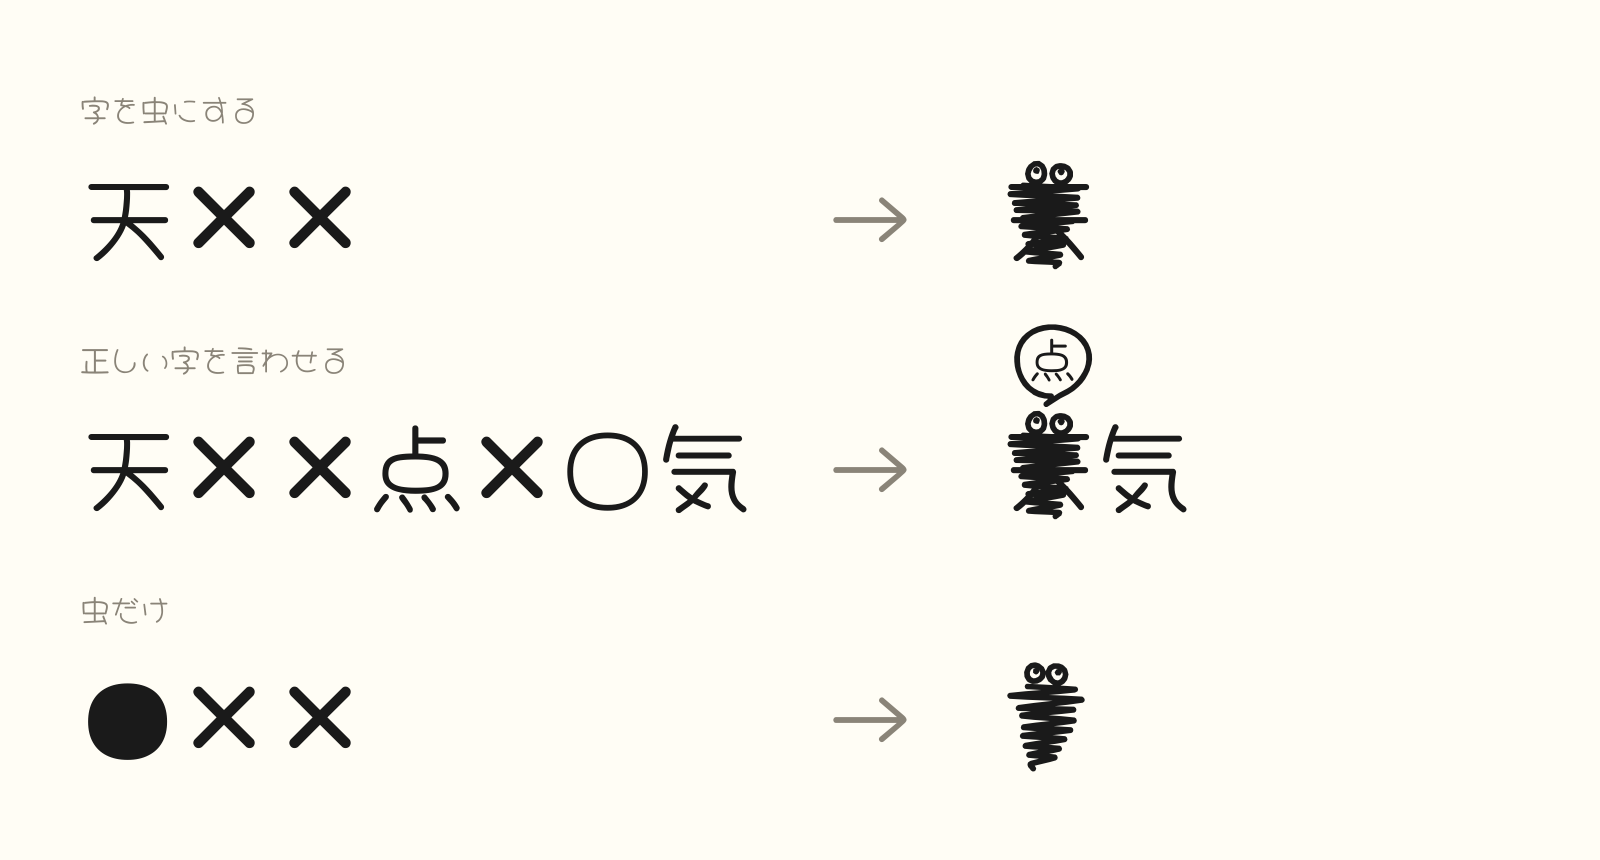
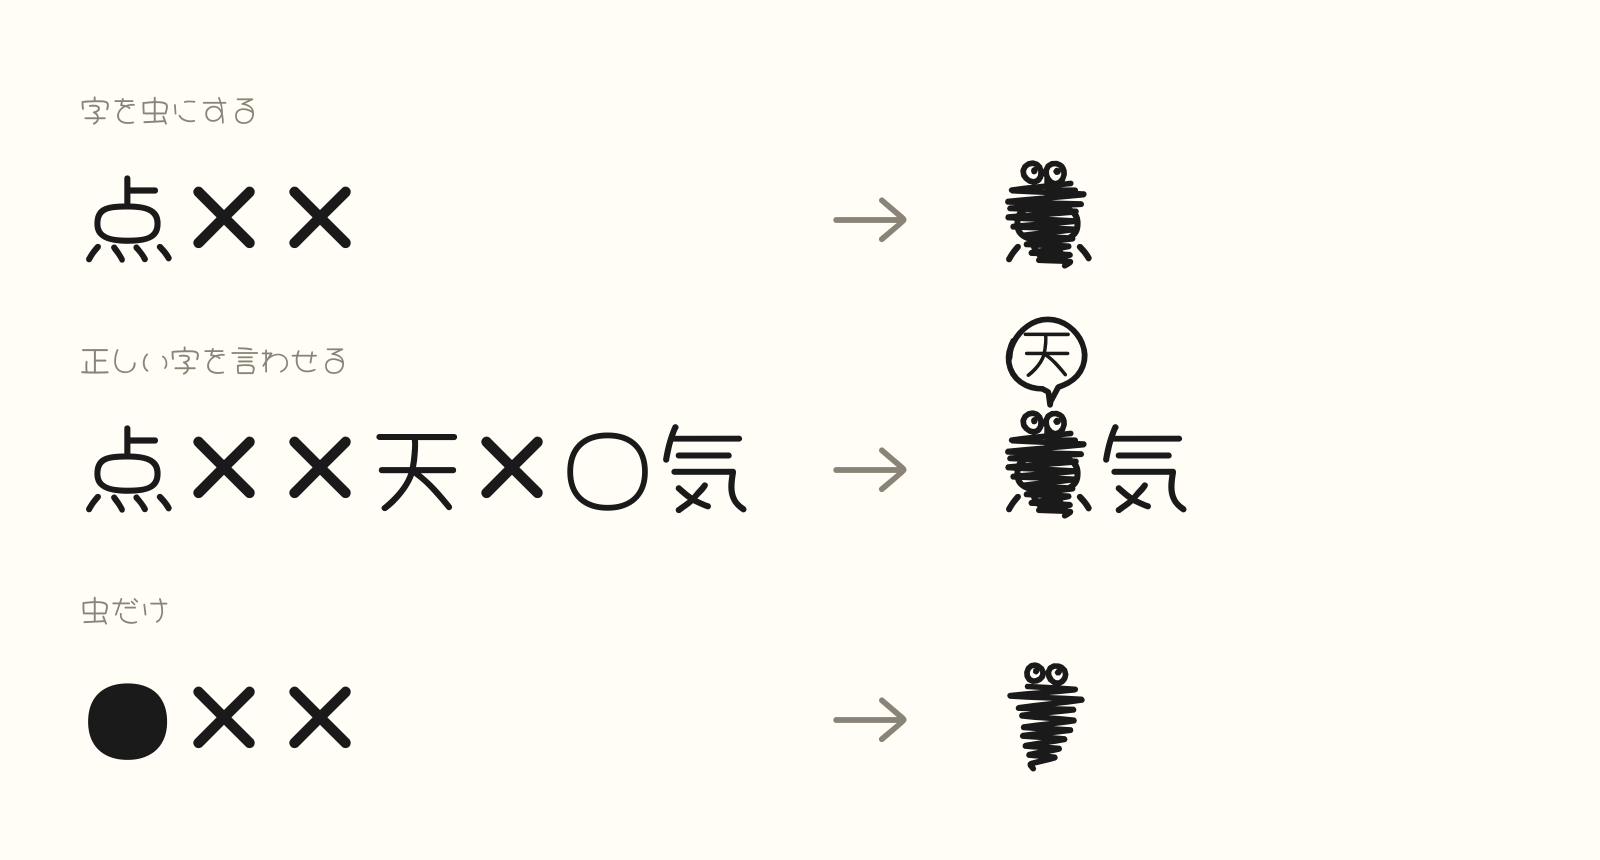
例文を「誤字を正しい字に直す」向きにする
天✕✕点✕○気 は正しい字を消して誤字を言わせていたので、点✕✕天✕○気 に入れ替えた。
縦書きの見本の「間違い」も、問✕✕間✕○違い に直した。

diff --git a/preview.html b/preview.html
@@ -28,11 +28,11 @@
 #guide .mino{word-break:keep-all}#guide code{font:12px/1.4 ui-monospace,monospace;color:#888;display:block}#nomi p{font-size:38px;line-height:1.7}</style>
 <div id="guide">
 <h2>使い分け（漢字のある4書体）: 横書きは ss、縦書きの漢字は合字</h2>
-<code>横 ss02: &lt;span class="s2"&gt;天&lt;/span&gt; / 横 ss01 + ss03: &lt;span class="s1"&gt;天&lt;/span&gt;&lt;span class="s3"&gt;点&lt;/span&gt; / 横 合字: &lt;span class="mino"&gt;天✕✕点✕○&lt;/span&gt;（.mino は word-break: keep-all）</code>
-<p style="font-family:Gokuboso">良い<span class="s2">天</span>気 良い<span class="s1">天</span><span class="s3">点</span>気 良い<span class="mino">天✕✕点✕○</span>気</p>
-<p style="font-family:Marumoji">良い<span class="s2">天</span>気 良い<span class="s1">天</span><span class="s3">点</span>気 良い<span class="mino">天✕✕点✕○</span>気</p>
-<p style="font-family:Ballpen">良い<span class="s2">天</span>気 良い<span class="s1">天</span><span class="s3">点</span>気 良い<span class="mino">天✕✕点✕○</span>気</p>
-<p style="font-family:Marker">良い<span class="s2">天</span>気 良い<span class="s1">天</span><span class="s3">点</span>気 良い<span class="mino">天✕✕点✕○</span>気</p>
+<code>横 ss02: &lt;span class="s2"&gt;天&lt;/span&gt; / 横 ss01 + ss03: &lt;span class="s1"&gt;点&lt;/span&gt;&lt;span class="s3"&gt;天&lt;/span&gt; / 横 合字: &lt;span class="mino"&gt;点✕✕天✕○&lt;/span&gt;（.mino は word-break: keep-all）</code>
+<p style="font-family:Gokuboso">良い<span class="s2">天</span>気 良い<span class="s1">点</span><span class="s3">天</span>気 良い<span class="mino">点✕✕天✕○</span>気</p>
+<p style="font-family:Marumoji">良い<span class="s2">天</span>気 良い<span class="s1">点</span><span class="s3">天</span>気 良い<span class="mino">点✕✕天✕○</span>気</p>
+<p style="font-family:Ballpen">良い<span class="s2">天</span>気 良い<span class="s1">点</span><span class="s3">天</span>気 良い<span class="mino">点✕✕天✕○</span>気</p>
+<p style="font-family:Marker">良い<span class="s2">天</span>気 良い<span class="s1">点</span><span class="s3">天</span>気 良い<span class="mino">点✕✕天✕○</span>気</p>
 <code>縦 合字: &lt;span class="mino"&gt;猫✕✕犬✕○と&lt;/span&gt;（span にかなを1字入れる。段落に text-shadow: 1em 0 0 transparent）/ 縦 かなの ss02</code>
 <p class="v" style="font-family:Gokuboso">今日は<span class="mino">猫✕✕犬✕○と</span>遊ぶ<br>それ<span class="s2">は</span>ない</p><p class="v" style="font-family:Marumoji">今日は<span class="mino">猫✕✕犬✕○と</span>遊ぶ<br>それ<span class="s2">は</span>ない</p><p class="v" style="font-family:Ballpen">今日は<span class="mino">猫✕✕犬✕○と</span>遊ぶ<br>それ<span class="s2">は</span>ない</p><p class="v" style="font-family:Marker">今日は<span class="mino">猫✕✕犬✕○と</span>遊ぶ<br>それ<span class="s2">は</span>ない</p>
 </div>

diff --git a/make_images.py b/make_images.py
@@ -128,7 +128,7 @@ def social():
 def howto():
     """打ち方と出るもの。左が打つ字、右が出る形。"""
     c = Canvas(1600, 860)
-    rows = [(f"天{X}{X}", "字を虫にする"), (f"天{X}{X}点{X}{O}気", "正しい字を言わせる"), (f"{DOT}{X}{X}", "虫だけ")]
+    rows = [(f"点{X}{X}", "字を虫にする"), (f"点{X}{X}天{X}{O}気", "正しい字を言わせる"), (f"{DOT}{X}{X}", "虫だけ")]
     for i, (typed, note) in enumerate(rows):
         y = 250 + i * 250
         c.text("Marumoji", note, 80, y - 130, 30, color=SUB)
@@ -145,7 +145,7 @@ def styles():
         x, y = 80 + (i % 2) * 780, 250 + (i // 2) * 300
         kanji = i < 4
         c.text(key, ja, x, y + 75, 30, color=SUB)  # 吹き出しに重ならないよう、見本の下に置く
-        c.text(key, f"良い天{X}{X}点{X}{O}気です" if kanji else f"よいで{X}{X}て{X}{O}んきです", x, y, 92)
+        c.text(key, f"良い点{X}{X}天{X}{O}気です" if kanji else f"よいで{X}{X}て{X}{O}んきです", x, y, 92)
     c.save("styles")
 
 
@@ -153,7 +153,7 @@ def vertical():
     """縦書きの見本。"""
     c = Canvas(1600, 900)
     lines = [("Marumoji", f"今日は猫{X}{X}犬{X}{O}と遊んだ。"), ("Ballpen", f"明日は雨{X}{X}晴{X}{O}れるはず。"),
-             ("Marker", f"漢字の間{X}{X}違{X}{O}いを直す。"), ("Gokubuto", f"かきそこ{X}{X}ん{X}{O}じた。")]
+             ("Marker", f"漢字の問{X}{X}間{X}{O}違いを直す。"), ("Gokubuto", f"かきそこ{X}{X}ん{X}{O}じた。")]
     for i, (key, text) in enumerate(lines):
         c.text(key, text, 1340 - i * 340, 90, 76, vertical=True)
     c.center()

diff --git a/README.md b/README.md
@@ -2,7 +2,7 @@
 
 書き損じた字を黒く塗りつぶして目を描き、正しい字を吹き出しで言わせる「書き損じミノムシ」を、文字を打つだけで出せるフォントです。
 
-<img src="images/howto.png" width="800" alt="打ち方の例。天✕✕ と打つと「天」が虫になり、天✕✕点✕○気 と打つと虫の上に「点」の吹き出しが出る。●✕✕ は虫だけが出る。">
+<img src="images/howto.png" width="800" alt="打ち方の例。点✕✕ と打つと「点」が虫になり、点✕✕天✕○気 と打つと虫の上に「天」の吹き出しが出る。●✕✕ は虫だけが出る。">
 
 バージョン 1.000
 
@@ -38,7 +38,7 @@
 | 字✕○ | その字を吹き出しにして、直前の字の上（縦書きは右）に出す |
 | ●✕✕ | 虫だけ（下に字がない） |
 
-例:「天✕✕点✕○気」と打つと、「天」が虫になり、その上に「点」の吹き出しが出て、「気」が続きます。
+例:「点✕✕天✕○気」と打つと、書き損じの「点」が虫になり、その上に正しい「天」の吹き出しが出て、「気」が続きます。
 
 - ✕ は U+2715 です。「ばつ」の変換候補にあります。掛け算の ×（U+00D7）やアルファベットの X では変わりません。
 - ○ は U+25CB、● は U+25CF です。「まる」で変換できます。
@@ -102,7 +102,7 @@ Chrome 系はそのまま出ます。Safari と Firefox には、次の指定が
 
 ```html
 <!-- 横書き -->
-<p class="mino-text">今日は良い<span class="mino">天✕✕点✕○</span>気です。</p>
+<p class="mino-text">今日は良い<span class="mino">点✕✕天✕○</span>気です。</p>
 
 <!-- 縦書き: span に、となりのかなか句読点を1字入れる -->
 <p class="mino-text mino-tate">今日は<span class="mino">猫✕✕犬✕○と</span>遊んだ。</p>
